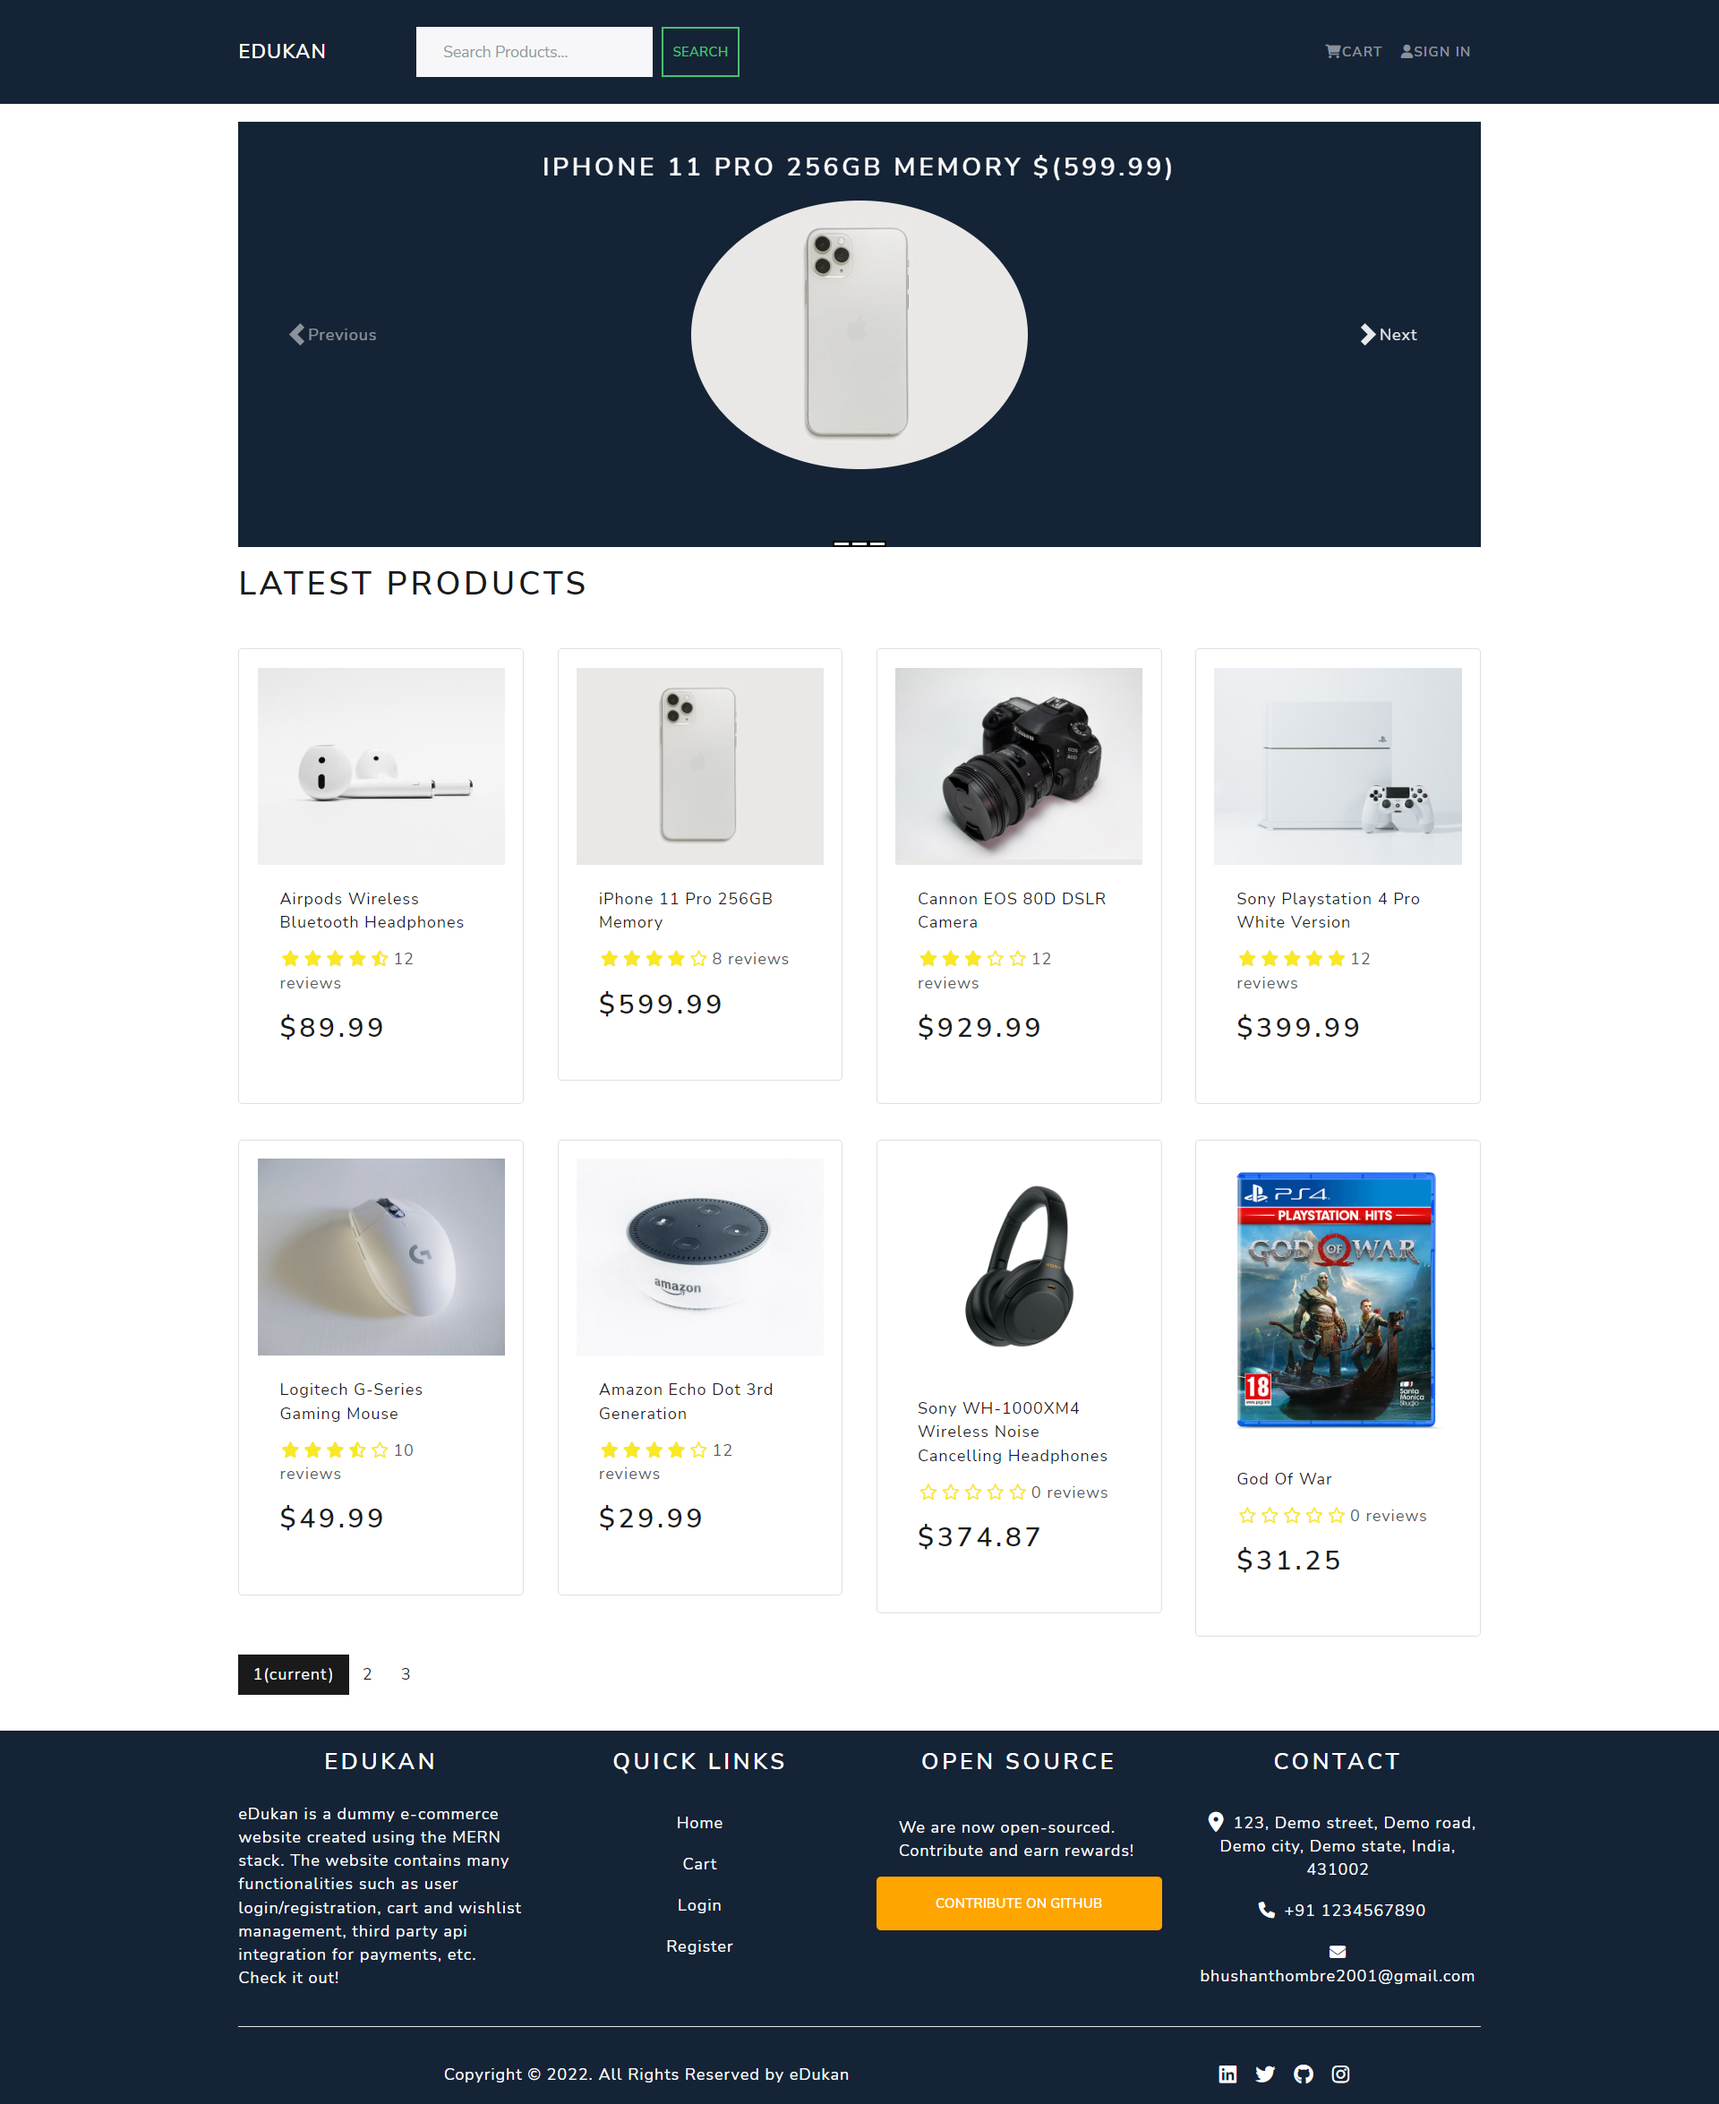
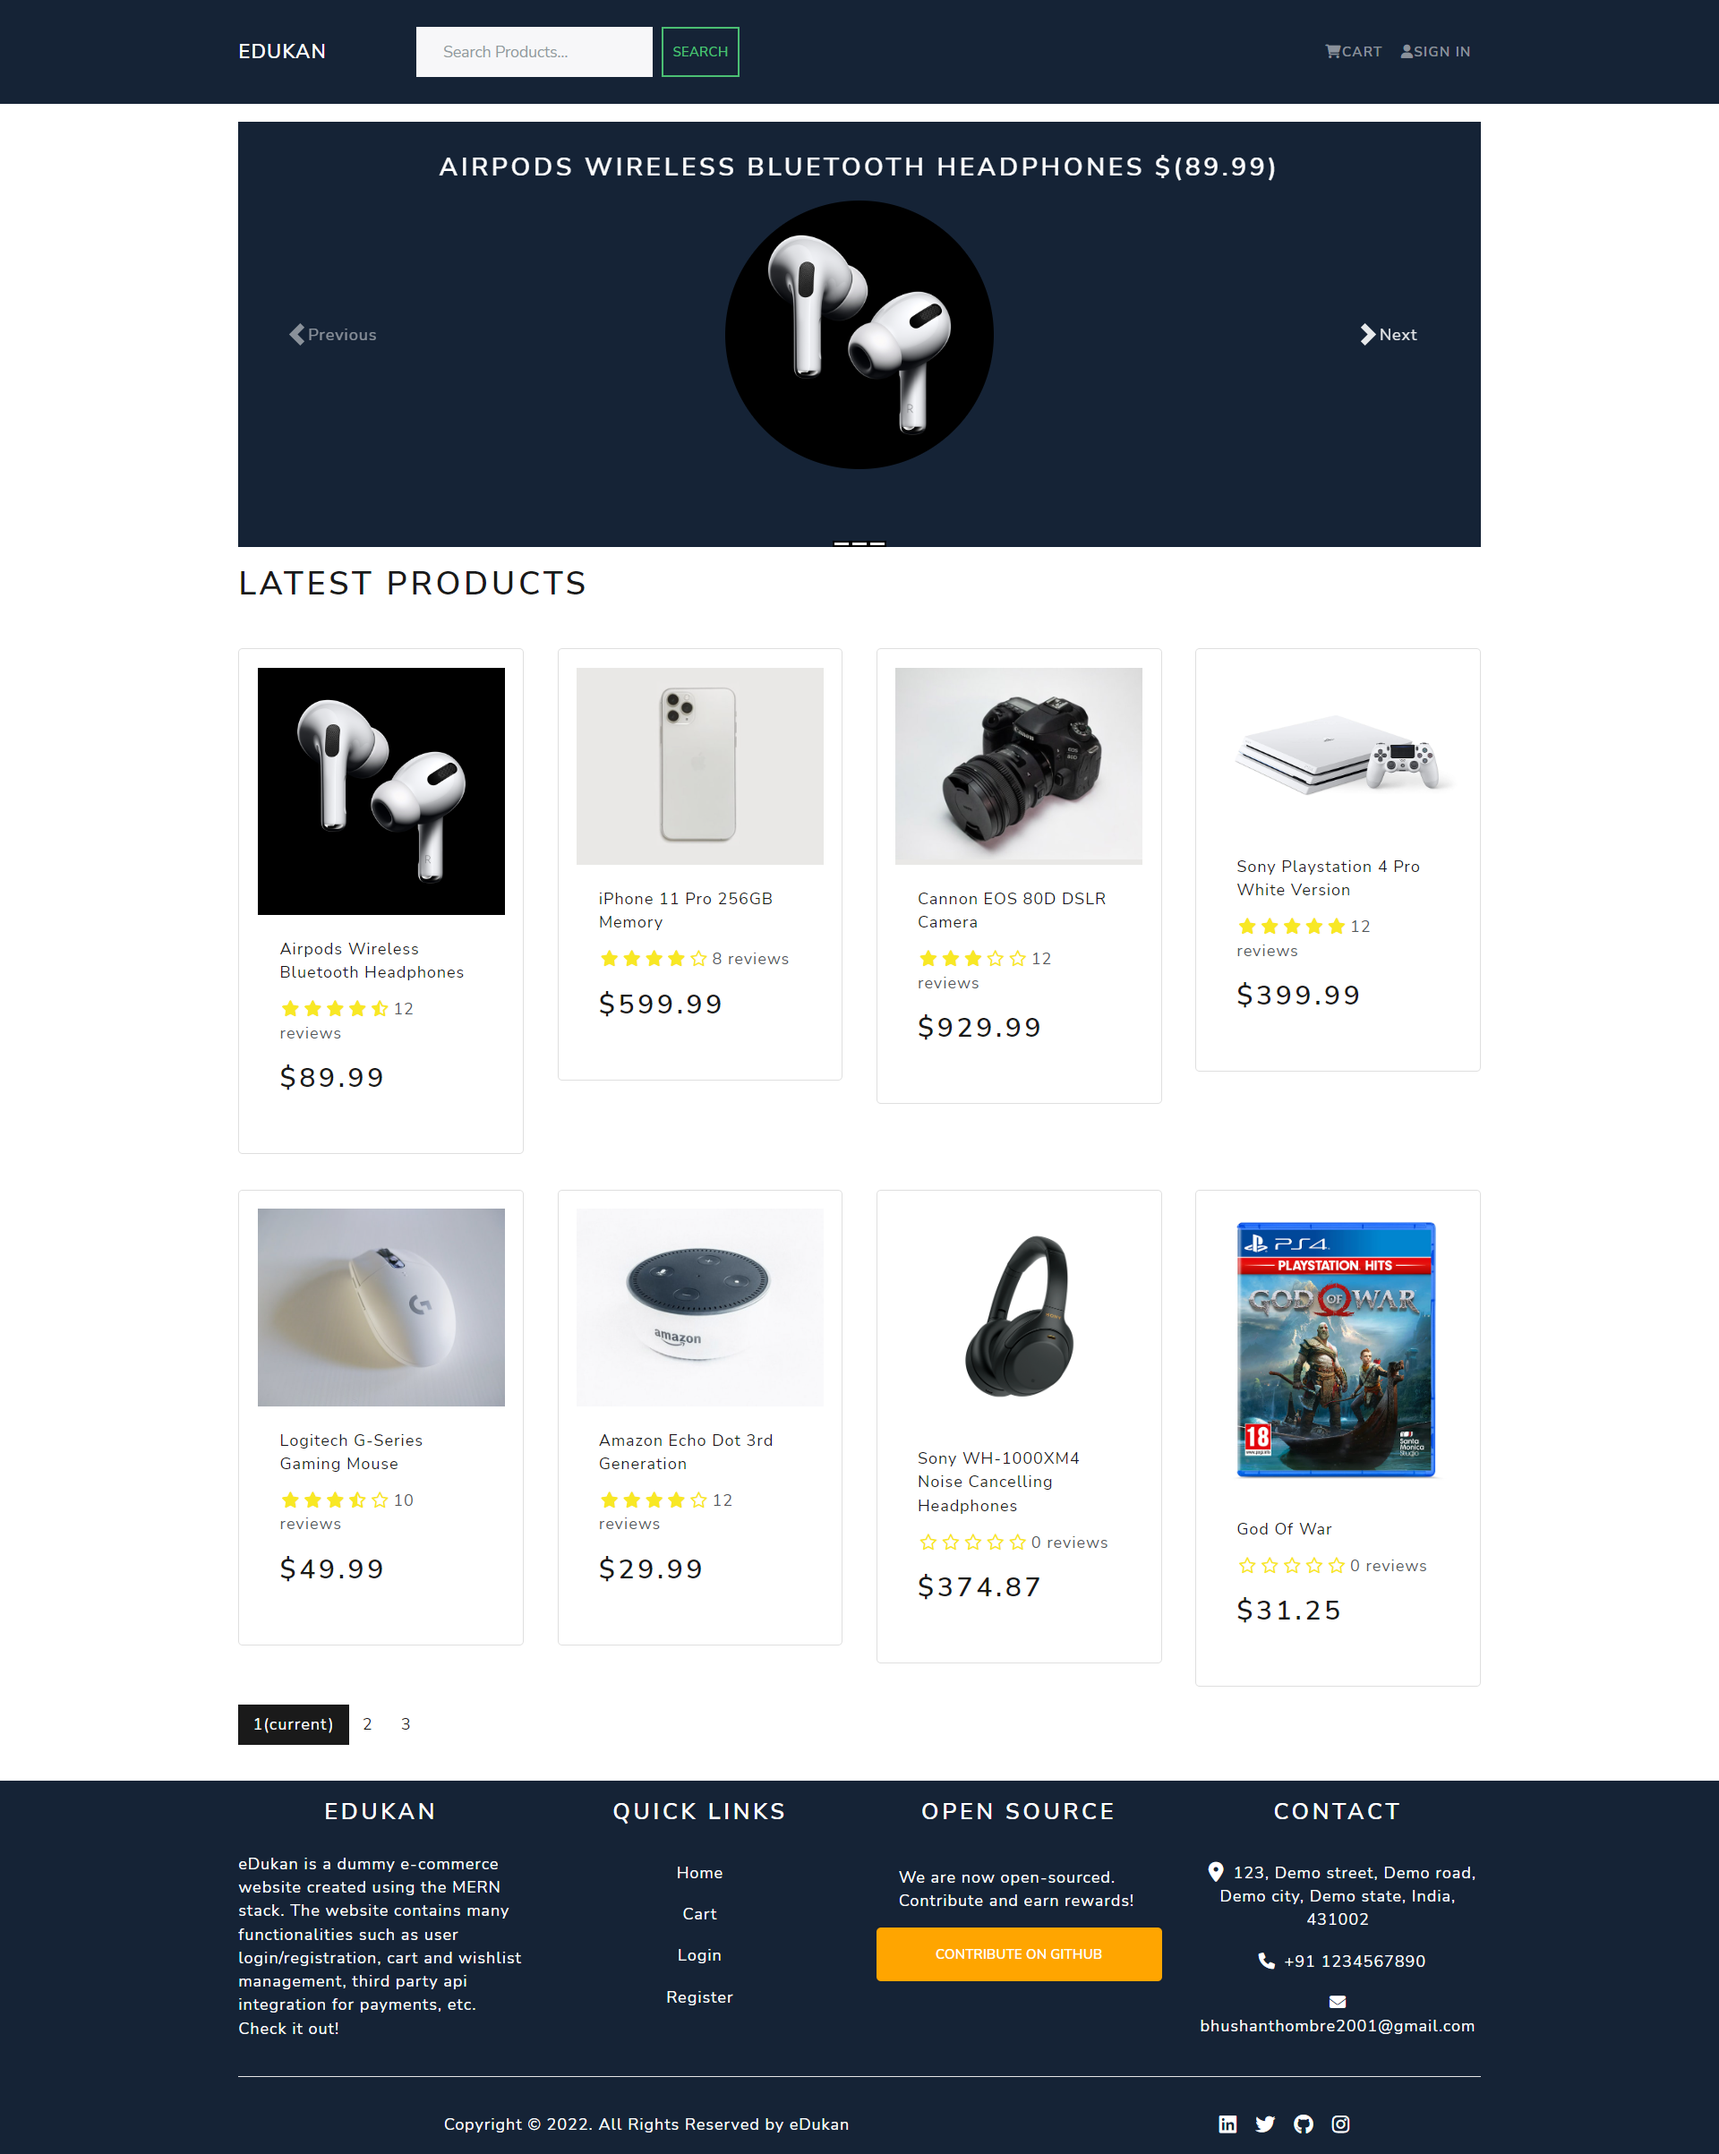
Added products and updated readme screenshot

diff --git a/backend/data/products.js b/backend/data/products.js
@@ -5,7 +5,7 @@ const products = [
     description:
       'Bluetooth technology lets you connect it with compatible devices wirelessly High-quality AAC audio offers immersive listening experience Built-in microphone allows you to take calls while working',
     brand: 'Apple',
-    category: 'Electronics',
+    category: 'Headphones',
     price: 89.99,
     countInStock: 10,
     rating: 4.5,
@@ -17,7 +17,7 @@ const products = [
     description:
       'Introducing the iPhone 11 Pro. A transformative triple-camera system that adds tons of capability without complexity. An unprecedented leap in battery life',
     brand: 'Apple',
-    category: 'Electronics',
+    category: 'Smartphones',
     price: 599.99,
     countInStock: 7,
     rating: 4.0,
@@ -29,7 +29,7 @@ const products = [
     description:
       'Characterized by versatile imaging specs, the Canon EOS 80D further clarifies itself using a pair of robust focusing systems and an intuitive design',
     brand: 'Cannon',
-    category: 'Electronics',
+    category: 'Camera',
     price: 929.99,
     countInStock: 5,
     rating: 3,
@@ -41,7 +41,7 @@ const products = [
     description:
       'The ultimate home entertainment center starts with PlayStation. Whether you are into gaming, HD movies, television, music',
     brand: 'Sony',
-    category: 'Electronics',
+    category: 'Gaming Consoles',
     price: 399.99,
     countInStock: 11,
     rating: 5,
@@ -53,7 +53,7 @@ const products = [
     description:
       'Get a better handle on your games with this Logitech LIGHTSYNC gaming mouse. The six programmable buttons allow customization for a smooth playing experience',
     brand: 'Logitech',
-    category: 'Electronics',
+    category: 'Computer Accessories',
     price: 49.99,
     countInStock: 7,
     rating: 3.5,
@@ -70,6 +70,138 @@ const products = [
     countInStock: 0,
     rating: 4,
     numReviews: 12,
+  },
+  {
+    name: 'Sony WH-1000XM4 Noise Cancelling Headphones',
+    image: '/images/headphones.png',
+    description:
+      'Its just you and your music with the WH-1000XM4 headphones. The easy way to enjoy less noise and even purer sound, with smart listening technology that automatically personalises your experience. Discover how the WH-1000XM4 headphones blend our most advanced noise cancelling with exceptional sound quality and a range of smart features for an unrivalled listening experience.',
+    brand: 'Sony',
+    category: 'Headphones',
+    price: 374.87,
+    countInStock: 12,
+    rating: 0,
+    numReviews: 0,
+  },
+  {
+    name: 'God Of War',
+    image: '/images/godOfWar.jpg',
+    description:
+      'God of War is an action-adventure game franchise created by David Jaffe at Sonys Santa Monica Studio. It began in 2005 on the PlayStation 2 video game console, and has become a flagship title for the PlayStation brand, consisting of ten games across multiple platforms with an eleventh currently in development.',
+    brand: 'Sony Interactive Entertainment',
+    category: 'Games',
+    price: 31.25,
+    countInStock: 12,
+    rating: 0,
+    numReviews: 0,
+  },
+  {
+    name: 'boAt PartyPal 60 Speakers',
+    image: '/images/boat.png',
+    description:
+      'Wherever the party is tonight, make sure you carry the powerful 20W R.M.S Sound of the PartyPal 60 along. Its time to create memories with wireless Bluetooth V5.0 guiding you to the shores of Nirvana. So, get loud and vibing with the integral space boom party inspired design of the boAt PartyPal 60. Customize those EQs until the bass is almost rude, with up to 4 hours of playtime from the 2200mAh lithium battery.',
+    brand: 'boAt',
+    category: 'Headphones',
+    price: 62.5,
+    countInStock: 10,
+    rating: 0,
+    numReviews: 0,
+  },
+  {
+    name: 'MSI GP66 Gaming Laptop',
+    image: '/images/MSI.jpg',
+    description:
+      'Ignite fiery tempest in every gaming battle as you bring home MSI GP66 Leopard gaming laptop. This laptop is driven by an 11th Gen Intel Core i7 CPU processor and an NVIDIA GeForce RTX 30 series graphics card for boosted gaming and seamless multitasking performance. Also, it features a Per-key RGB Gaming Keyboard for intense gaming and an efficient Cooling system for extended hours of entertainment without worrying about the laptop getting heated up',
+    brand: 'Macro Star International',
+    category: 'Gaming Laptops',
+    price: 1624,
+    countInStock: 3,
+    rating: 0,
+    numReviews: 0,
+  },
+  {
+    name: 'Gigabyte Gaming Monitor',
+    image: '/images/monitor.png',
+    description:
+      'Playing your favourite games is easy, thanks to the Gigabyte 120.726 cm (47.53) AORUS FO48U Gaming Monitor. Boasting an OLED display, this gaming monitor displays true colours. With its high resolution and rapid refresh rate, this gaming monitor provides a detailed display quality and an exceptional gaming experience. In addition, owing to its exclusive sound reinforcement techniques, this gaming monitor delivers pure and pristine sound quality and offers additional modes to personalise sound as per your entertainment and gaming needs.',
+    brand: 'GIGABYTE',
+    category: 'Gaming Monitors',
+    price: 1400,
+    countInStock: 2,
+    rating: 0,
+    numReviews: 0,
+  },
+  {
+    name: 'Gigabyte GeForce GT 710 Graphics Card',
+    image: '/images/graphics.jpg',
+    description:
+      'Brings all your videos and pictures to life at HD resolutions. Experience up to 10 times faster performance compared to integrated graphics. This graphic card also has the advantage to drive up to three HD displays. Play low and HD games with immersive experience. Using high quality components on graphics cards is the key factor for having a long lasting, stable and reliable product.',
+    brand: 'GIGABYTE',
+    category: 'Graphics Card',
+    price: 100,
+    countInStock: 12,
+    rating: 0,
+    numReviews: 0,
+  },
+  {
+    name: 'XBox Series S',
+    image: '/images/Xbox.jpg',
+    description:
+      'The Microsoft Xbox Series S is the smallest Xbox console to date, and it packs a powerful performance in its sleek body. This console features the Xbox Velocity Architecture for high-speed gaming, a custom-build 512 GB NVMe SSD to reduce the loading time, and it comes with an Xbox Wireless Controller for easy gaming.',
+    brand: 'Micorsoft',
+    category: 'Gaming Consoles',
+    price: 612.5,
+    countInStock: 12,
+    rating: 0,
+    numReviews: 0,
+  },
+  {
+    name: 'MARVELS SPIDER-MAN: MILES MORALES',
+    image: '/images/SpiderMan.jpg',
+    description:
+      'In the latest adventure in the Marvels Spider-Man universe, teenager Miles Morales is adjusting to his new home while following in the footsteps of his mentor, Peter Parker, as a new Spider-Man. But when a fierce power struggle threatens to destroy his new home, the aspiring hero realizes that with great power, there must also come great responsibility. To save all of Marvels New York, Miles must take up the mantle of Spider-Man and own it.',
+    brand: 'Sony Interactive Entertainment',
+    category: 'Games',
+    price: 31.25,
+    countInStock: 2,
+    rating: 0,
+    numReviews: 0,
+  },
+  {
+    name: 'Apple Magic Keyboard',
+    image: '/images/Keyboard.jpg',
+    description:
+      'With a built-in rechargeable battery and enhanced features, this sleek Apple Magic keyboard is designed for optimum performance. Its improved scissor mechanism allows increased stability, an optimized key travel and a lower profile so you can type comfortably and precisely. Its designed to pair automatically with your Mac and has an incredibly long-lasting battery.',
+    brand: 'Apple',
+    category: 'Computer Accessories',
+    price: 61,
+    countInStock: 8,
+    rating: 0,
+    numReviews: 0,
+  },
+  {
+    name: 'Forza Horizon 5',
+    image: '/images/forza.jpg',
+    description:
+      'Lead breathtaking expeditions across the vibrant and ever-evolving open world landscapes of Mexico with limitless, fun driving action in hundreds of the worlds greatest cars. Explore a world of striking contrast and beauty. Discover living deserts, lush jungles, historic cities, hidden ruins, pristine beaches, vast canyons and a towering snow-capped volcano',
+    brand: 'Microsoft',
+    category: 'Games',
+    price: 37.65,
+    countInStock: 12,
+    rating: 0,
+    numReviews: 0,
+  },
+  {
+    name: 'Sony Play Station 5',
+    image: '/images/ps5.jpg',
+    description:
+      'Experience lightning-fast loading with a high-speed SSD - deeper immersion with support for haptic feedback - adaptive triggers and 3D audio and incredible PlayStation games.Z',
+    brand: 'Sony',
+    category: 'Gaming Consoles',
+    price: 600,
+    countInStock: 5,
+    rating: 0,
+    numReviews: 0,
   },
 ];
 
